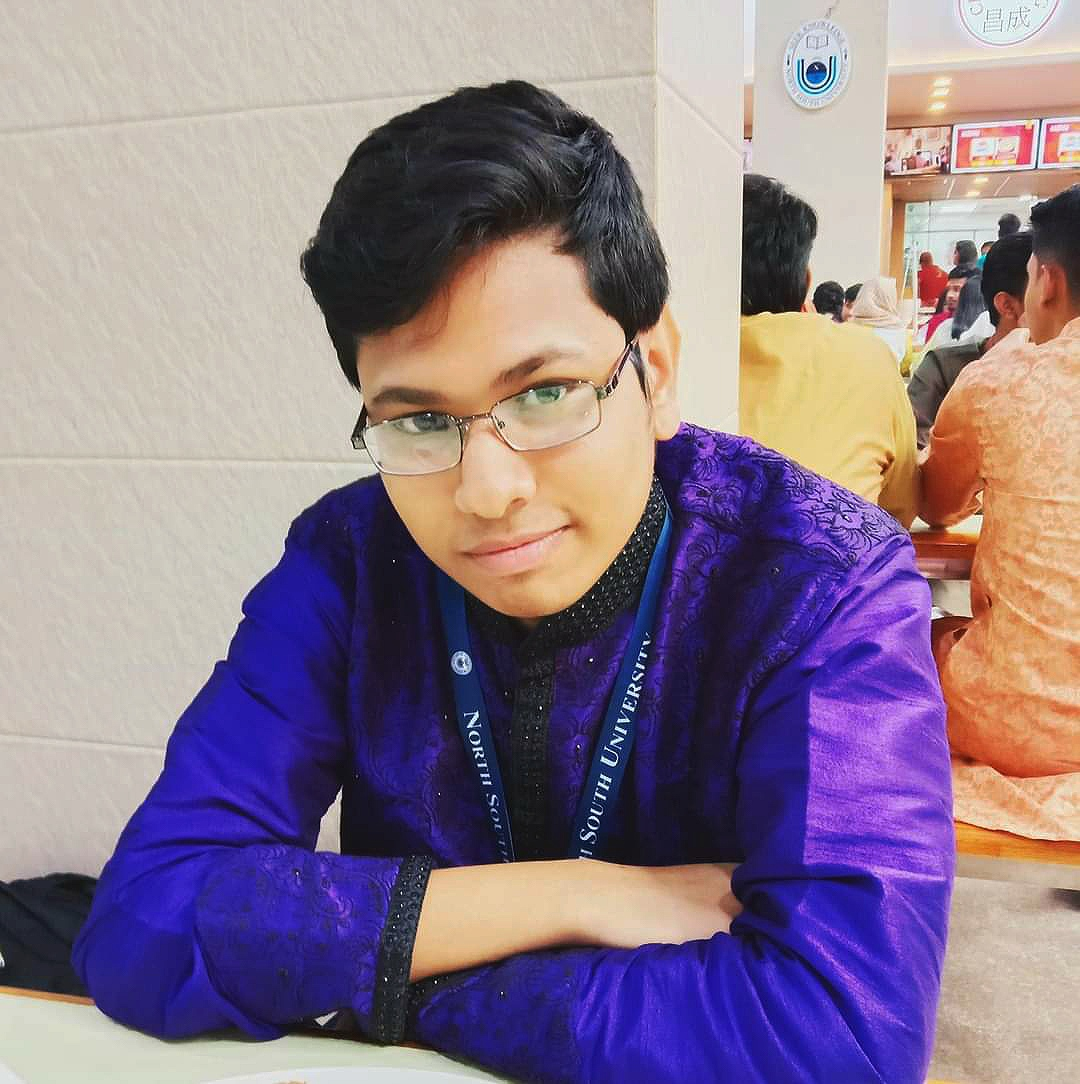
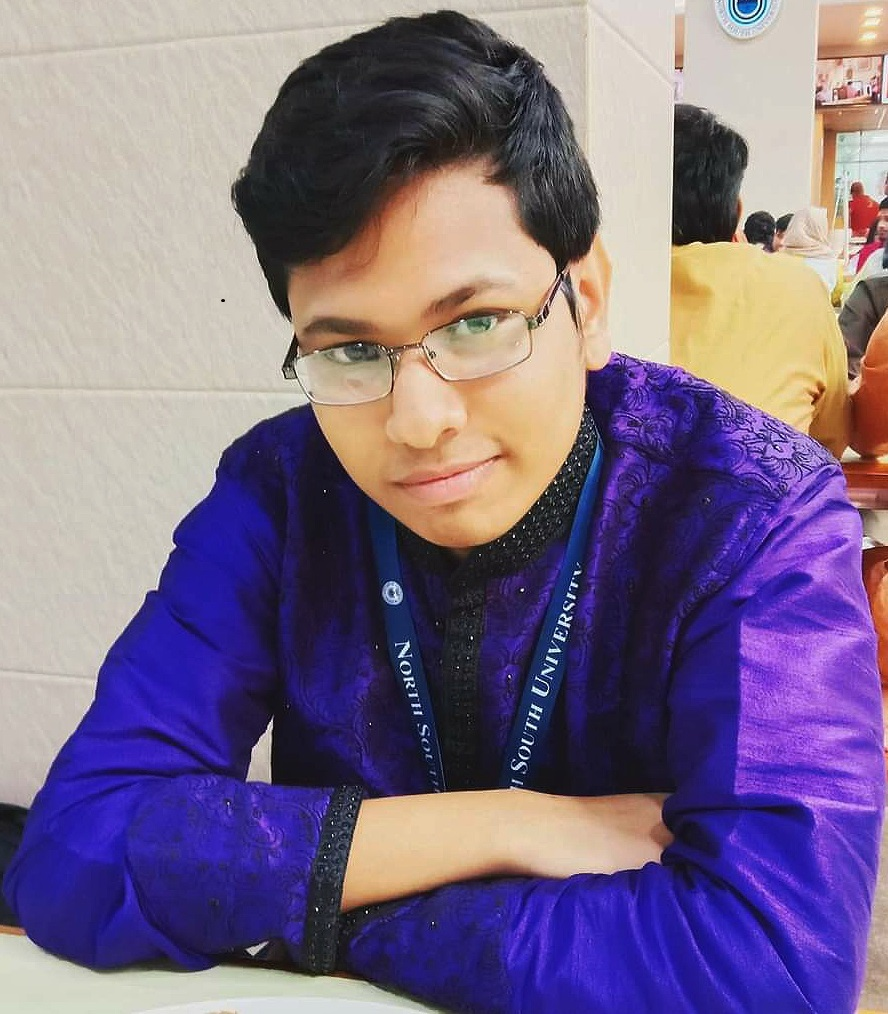
box added

diff --git a/index.html b/index.html
@@ -24,23 +24,95 @@
     
     <div class="banner">
        
-    <div class="banner-content">
-        <h3>Hi, I am</h3>
-       <h1>Iztihad Rafid</h1>
-       <p>Studying at North South University in Computer Science and Engineering (CSE).<br> My future target is to be a Web developer.</p><br>
-       <button class="hire_me_button">Download</button> 
-       <button class="hire_me_button">Contact</button>
-    </div>
-    <img class="profile_pic" src="image/profile_pic.jpg" alt="mypic">
-
-   
-
-    </div>
+        <div class="banner-content">
+         <h3 class="banner_greeting">Hi, I am</h3>
+         <h1 class="ownername">Iztihad Rafid</h1>
+         <p class="description_middle">Studying at North South University in Computer Science and Engineering (CSE).<br> My future target is to be a Web developer.</p><br>
+         <button class="hire_me_button">Download</button> 
+         <button class="hire_me_button">Contact</button>
+        </div>
+    
+        <img class="profile_pic" src="image/Profile_pic_light.png" alt="mypic">
+    
+   </div>
 
     </header>
 
     <main>
-        
+        <section class="about">
+            <h3 class="section-title">About Me</h3><br><br>
+            <p class="section-description">
+                I'm a designer & developer with a passion for web design. I enjoy developing simple, clean and 
+                slick websites that provide real value to the end user. Thousands of clients have procured 
+                exceptional results while working with me. Delivering work within time and budget which meets<br> 
+                clients requirements in our meta<br>
+            </p><br>
+            <ul class="about_more">
+            <li class="list_more"><a href=""></a>Name</li>
+            <li class="list_more"><a href=""></a>Email</li>
+            <li class="list_more"><a href=""></a>Date of Birth</li>
+            <li class="list_more"><a href=""></a>From</li>
+            </ul>
+            <ul class="about_more_detail">
+                <li class="list_more"><a href="">Md. Iztihad Rafid</a></li>
+                <li class="list_more"><a  href="iztihadrafid10@gmail.com">iztihadrafid10@gmail.com</a></li>
+                <li class="list_more"><a href="">11-12-2000</a></li>
+                <li class="list_more"><a  href="https://en.wikipedia.org/wiki/Dhaka">Bangladesh, Dhaka</a></li>
+            </ul>
+
+
+        </section>
+        <section >
+            <!--1st Box-->
+            <div class="about_2ndsection">
+            <h3 class="section-title">What I do</h3>
+            <p class="section-description">I have experienced in multiple Programming languages. like C, C++, java. I have also  experience in markup language - HTML, CSS. I have  done threeProjects on my own. those projects in attached in Github </p><br>
+            </div>
+        </section>
+
+        <section class="boxes_container">
+            <div class="box">
+                <img class="box_icons" src="icons/C.png" alt="C icon"><br>
+                <h3 class="box_title" >C Programming</h3><br>
+                <p class="box_info">I started Programming language using C. <br>I have better skill in C program. I've made many projects using C language</p>
+            </div>
+
+            <!--2nd Box-->
+            
+    
+            <div class="box">
+                <img class="box_icons" src="icons/C++.png" alt="C++ icon"><br>
+                <h3 class="box_title" >C++ Programming</h3><br>
+                <p class="box_info"> I used C++ in multiple program. <br>I have better skill in C++ program. I've made few projects using C++ language</p>
+            </div>
+
+            <!--3rd Box-->
+            
+    
+            <div class="box">
+                <img class="box_icons" src="icons/java.png" alt=" java icon"><br>
+                <h3 class="box_title" >Java Programming</h3><br>
+                <p class="box_info">I've basic knowledge about java program. <br>I've made one project using java language</p>
+            </div>
+
+            <!--4th Box-->
+            
+    
+            <div class="box">
+                <img class="box_icons" src="icons/html.png" alt="html icon"><br>
+                <h3 class="box_title" >Html language</h3><br>
+                <p class="box_info">It's markup language. <br>I have better skill in Html. I've made many projects using html language.Many projects are attached in Github</p>
+            </div>
+
+            <!--5th Box-->
+            
+    
+            <div class="box">
+                <img class="box_icons" src="icons/CSS.png" alt="CSS icon"><br>
+                <h3 class="box_title" >CSS</h3><br>
+                <p class="box_info">CSS is cascading style sheet. <br>I used css styles in projects. to make the website better.</p>
+            </div>
+        </section>
     </main>
 
     <footer>

diff --git a/style/portfolio.css b/style/portfolio.css
@@ -13,11 +13,16 @@ header{
     padding-left: 30px;
     margin-left: 50px;
    
-    margin-bottom: 20px;
+    
     padding-bottom: 30px;
+    background-image: url('../image/header_bg.png');
+    padding-bottom: 0px;
+    background-position: right bottom;
+    background-repeat: no-repeat;
 }
 nav{
-    
+    font-size: 25px ;
+    font-weight: bold;
     margin: 0px 30px;
     padding: 10px;
     display: flex;
@@ -25,13 +30,13 @@ nav{
     align-items: center;
 }
 .nav_name{
-    font-size: 34px;
+    font-size: 45px;
     font-weight: bold;
     font-family:'Franklin Gothic Medium', 'Arial Narrow', Arial, sans-serif;
 }
 span{
     color: rgb(223, 94, 47);
-    font-size: 35px;
+    font-size: 48px;
 }
 nav > ul{
     display: flex;
@@ -51,20 +56,102 @@ nav >ul> li{
     background-color: orangered;
     border-style: none;
     border-radius: 5px;
+    font-size: 20px;
 }
 
 /*middle info style*/
+/*Banner*/
 .banner{
     display: flex;
-    padding: 30px 30px 30px 30px;
+    padding: 30px 30px 0px 30px;
     align-items: center;
     justify-content: space-around;
 }
 .profile_pic{
     width: 500px;
-    
-
+    padding-bottom: 0px;
+    margin-bottom: 0px;
+    border-radius: 500px;
 }
 .banner-content{
+
+}
+.banner_greeting{
+    font-size: 35px;
+    font-weight: bold;
+}
+.ownername{
+    font-size: 55px;
+}
+.description_middle{
+    font-size: 25px;
+}
+
+/*About*/
+.about{
+    background-color: antiquewhite;
+    margin:  5% 10% ;
+    padding: 10%;
+     
+}
+.section-title{
+    text-align: center;
+    font-size: 40px;
+    font-weight: bold;
+}
+.section-description{
+    text-align: center;
+    font-size: 24px;
+}
+.about_more{
+    display: flex;
+    justify-content: space-around;
+    font-size: 24px;
+    padding: 20px;
+}
+.list_more{
+    list-style: none;
+    color: rgb(68, 66, 66);
+}
+.about_more_detail{
+    display: flex;
     
+    justify-content: space-between;
+    font-size: 24px;
+}
+a:hover{
+    color: red;
+}
+                            /*2nd section*/
+.about_2ndsection{
+background-color: white;
+margin:  5% 10% ;
+padding: 10%;
+text-align: center;
+}
+                             /*Box*/
+.box{
+  width: 220px;
+  height: 260px;
+  box-shadow: 4px 4px 15px gray;
+  text-align: left;
+  color: black;
+  padding: 15px;
+  background-color: azure;
+  margin-bottom: 2%;
+}
+.box_icons{
+    width: 60px;
+    height: 60px;
+}
+.box_title{
+    font-size: 25px;
+}
+.box_info{
+    font-size: 18px;
+}
+.boxes_container{
+    display: flex;
+    justify-content: space-around;
+    align-items: center;
 }
